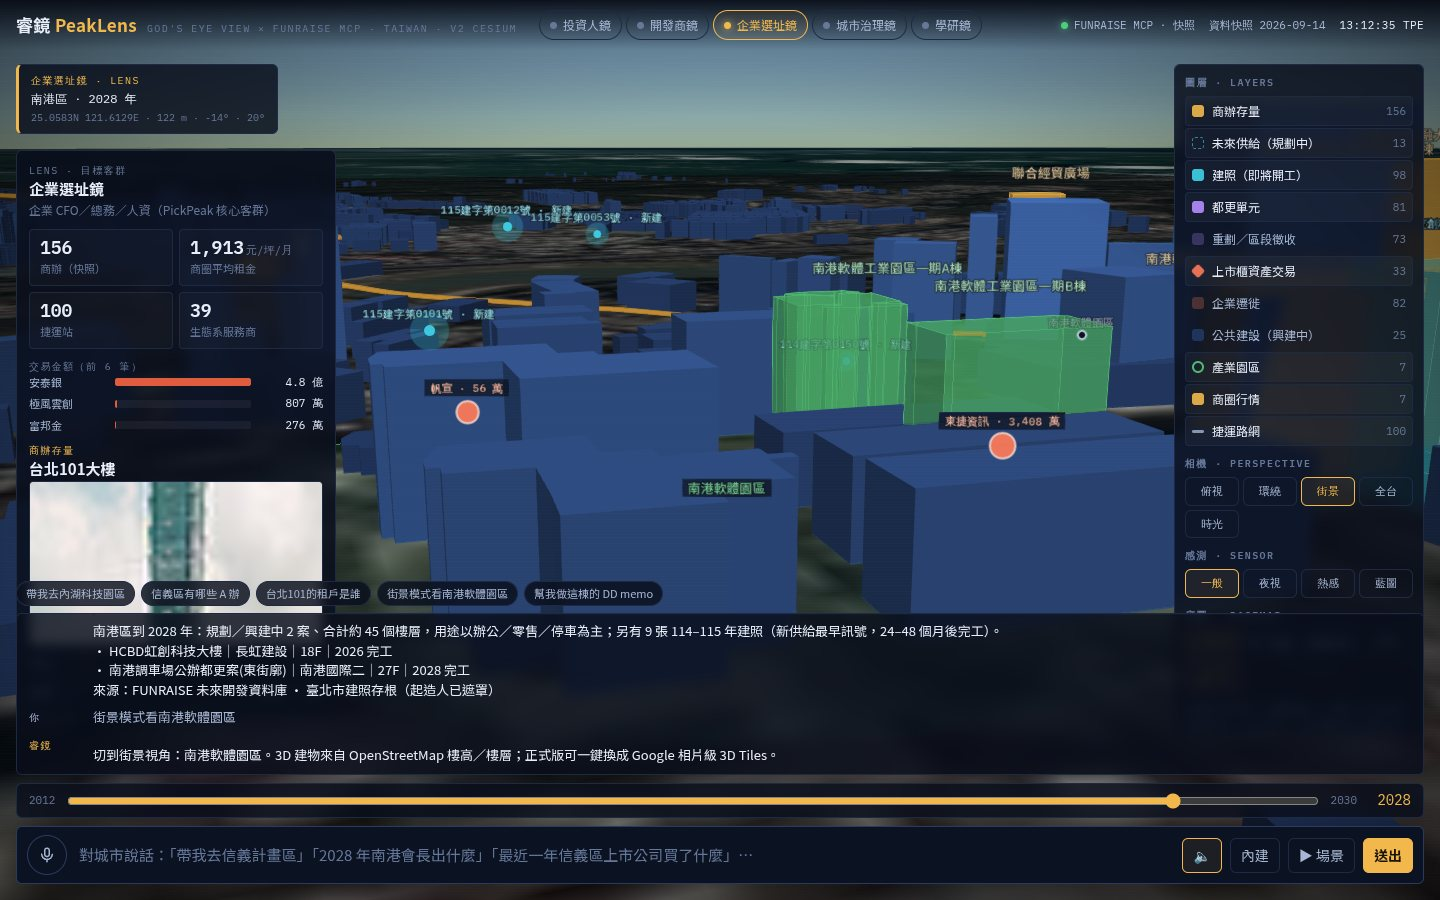
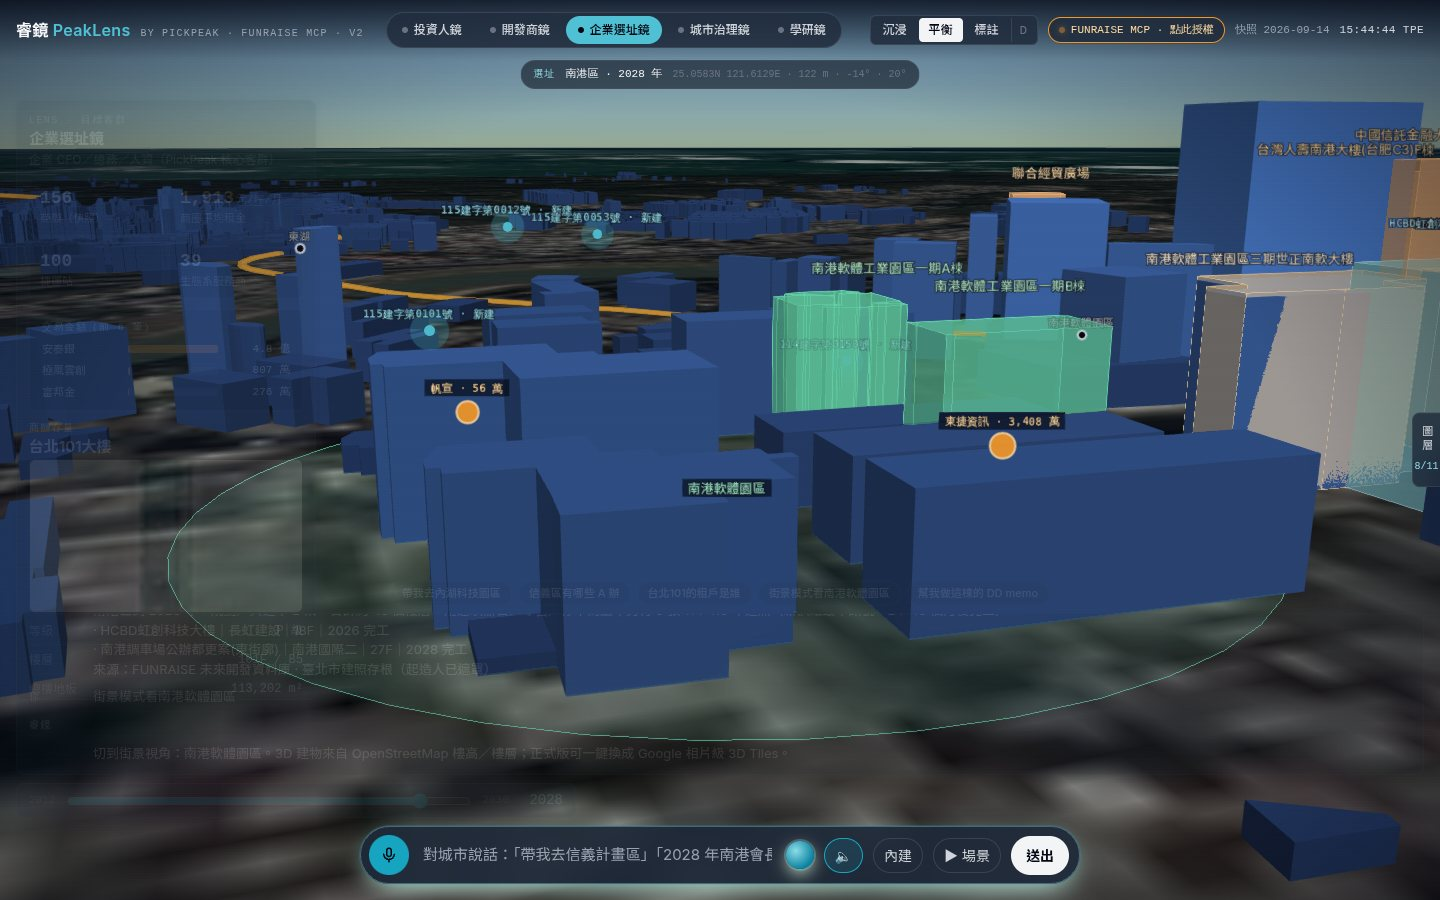
Auto-hide only on user camera gestures; clamp pinned cards; refresh screenshots
Claude-Session: https://claude.ai/code/session_01PCmZ2p81f4tgLd6AjxqB8X

diff --git a/app/src/ui.js b/app/src/ui.js
@@ -194,7 +194,7 @@ export function createUI({ map, data, basemap, layers, timeline, sensors, viewer
     const h = overlay.add(p[0], p[1], (item._h || 0) + 6, a, win => placeAttached(a, win, 140, -96));
     pins.set(key, h); toast(`已釘選「${title}」，卡片會跟著物件移動`);
   };
-  function placeAttached(a, win, dx, dy) { const card = a.querySelector('.pin-card, .callout'); const w = card.offsetWidth || 260; const flip = win.x + dx + w > innerWidth - 16; const x = flip ? -dx - w : dx; const y = dy; card.style.left = x + 'px'; card.style.top = y + 'px'; const line = a.querySelector('svg.leader'); const ex = flip ? x + w : x, ey = y + 18; line.style.left = Math.min(0, ex) + 'px'; line.style.top = Math.min(0, ey) + 'px'; line.setAttribute('width', Math.abs(ex) + 2); line.setAttribute('height', Math.abs(ey) + 2); const l = line.firstElementChild; l.setAttribute('x1', ex < 0 ? -ex : 0); l.setAttribute('y1', ey < 0 ? -ey : 0); l.setAttribute('x2', ex < 0 ? 0 : ex); l.setAttribute('y2', ey < 0 ? 0 : ey); }
+  function placeAttached(a, win, dx, dy) { const card = a.querySelector('.pin-card, .callout'); const w = card.offsetWidth || 260, h = card.offsetHeight || 40; const flip = win.x + dx + w > innerWidth - 16; const x = flip ? -dx - w : dx; let y = dy; if (win.y + y < 64) y = Math.abs(dy) * 0.6 + 12; if (win.y + y + h > innerHeight - 110) y = -h - Math.abs(dy) * 0.6; card.style.left = x + 'px'; card.style.top = y + 'px'; const line = a.querySelector('svg.leader'); const ex = flip ? x + w : x, ey = y + 18; line.style.left = Math.min(0, ex) + 'px'; line.style.top = Math.min(0, ey) + 'px'; line.setAttribute('width', Math.abs(ex) + 2); line.setAttribute('height', Math.abs(ey) + 2); const l = line.firstElementChild; l.setAttribute('x1', ex < 0 ? -ex : 0); l.setAttribute('y1', ey < 0 ? -ey : 0); l.setAttribute('x2', ex < 0 ? 0 : ex); l.setAttribute('y2', ey < 0 ? 0 : ey); }
   const callouts = []; let calloutHandles = [];
   ui.registerPulse = (key) => { if (callouts.includes(key) || callouts.length >= 8) return; const e = map.entityByKey(key); if (!e || !e.properties || !e.properties.pl) return; const pl = e.properties.pl.getValue(); if (!itemPos(pl.item)) return; callouts.push(key); renderCallouts(); };
   ui.clearCallouts = () => { callouts.length = 0; renderCallouts(); };

diff --git a/app/src/main.js b/app/src/main.js
@@ -81,9 +81,12 @@ async function boot() {
 
   /* ---- readout ---- */
   viewer.camera.percentageChanged = 0.02;
-  viewer.camera.changed.addEventListener(() => { ui.updateReadout(); ui.onCameraMove(); });
+  viewer.camera.changed.addEventListener(() => ui.updateReadout());
   viewer.camera.moveEnd.addEventListener(() => ui.updateReadout(true));
+  // auto-hide only for the user's own camera gestures (drag / wheel / pinch), not for agent or scene flights
   viewer.canvas.addEventListener('pointerdown', () => ui.onCameraMove(), { passive: true });
+  viewer.canvas.addEventListener('pointermove', e => { if (e.buttons) ui.onCameraMove(); }, { passive: true });
+  viewer.canvas.addEventListener('wheel', () => ui.onCameraMove(), { passive: true });
   setInterval(() => { if (rig.orbit) ui.updateReadout(); }, 1000);
 
   /* ---- go ---- */

diff --git a/docs/11-v2-cesium-app.md b/docs/11-v2-cesium-app.md
@@ -158,10 +158,11 @@ server/index.mjs   Node http：GET /api/health、POST /api/agent（@anthropic-ai
 
 `.env` 可選 `FUNRAISE_MCP_TOKEN`（靜態 token 跳過 OAuth）、`FUNRAISE_MCP_CLIENT_ID/SECRET`（預先註冊的 client）、`PUBLIC_URL`（server 對外網址，OAuth redirect 用）。`npm run check` 會探測一次並印出狀態。
 
-## 7. 截圖（無頭 Chromium 冒煙測試自動產生）
+## 7. 截圖（無頭 Chromium 冒煙測試自動產生 · PickPeak DS 版）
 
 | | |
 |---|---|
-| ![overview](assets/v2-overview.jpg) 開場：信義計畫區俯視 | ![renewal](assets/v2-renewal.jpg) 「信義區有哪些都更單元」：多邊形亮起 + 各區件數長條圖 |
-| ![future](assets/v2-future-2028.jpg) 「2028 年南港會長出什麼」：時間軸跳到 2028 | ![street](assets/v2-street.jpg) 街景模式：南港軟體園區（OSM 樓高） |
-| ![thermal](assets/v2-thermal.jpg) 熱感測（GLSL PostProcessStage） | |
+| ![overview](assets/v2-overview.jpg) 平衡模式：PickPeak chrome、讀數膠囊、右側圖層邊緣把手 | ![immersive](assets/v2-immersive.jpg) 沉浸模式：只留鏡、指令膠囊與字幕，面板收成邊緣把手 |
+| ![annotated](assets/v2-annotated.jpg) 標註模式：亮起的交易加編號 ①–③，對應左側「地圖標註」與來源晶片 | ![pin](assets/v2-pin.jpg) 釘在地圖上：台北101 的資料卡帶引線跟著物件 |
+| ![renewal](assets/v2-renewal.jpg) 「信義區有哪些都更單元」 | ![future](assets/v2-future-2028.jpg) 「2028 年南港會長出什麼」 |
+| ![street](assets/v2-street.jpg) 街景：南港軟體園區 | ![thermal](assets/v2-thermal.jpg) 熱感測 |
